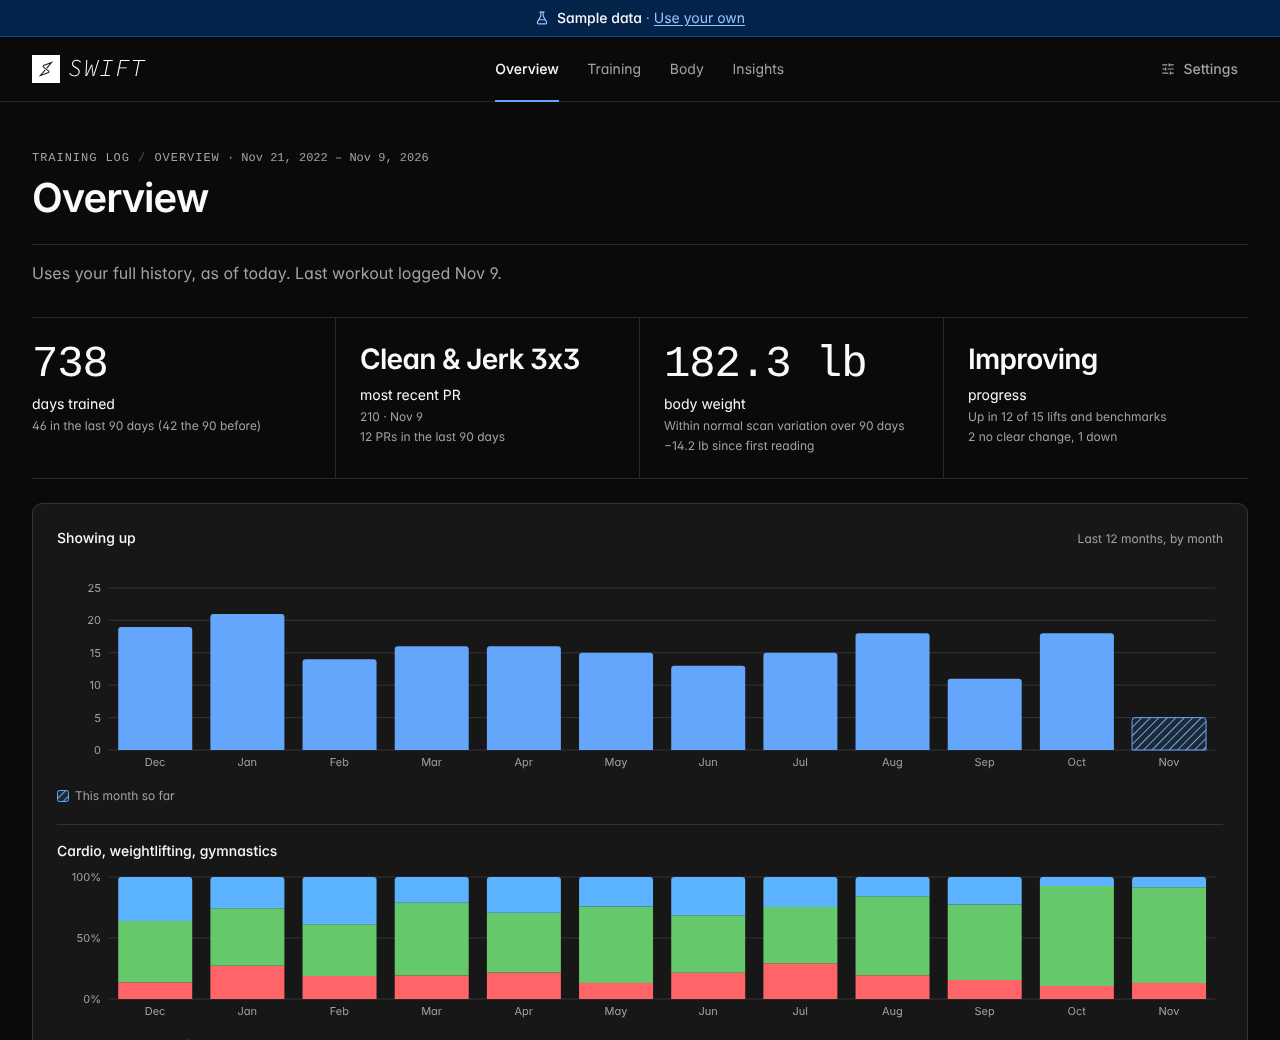
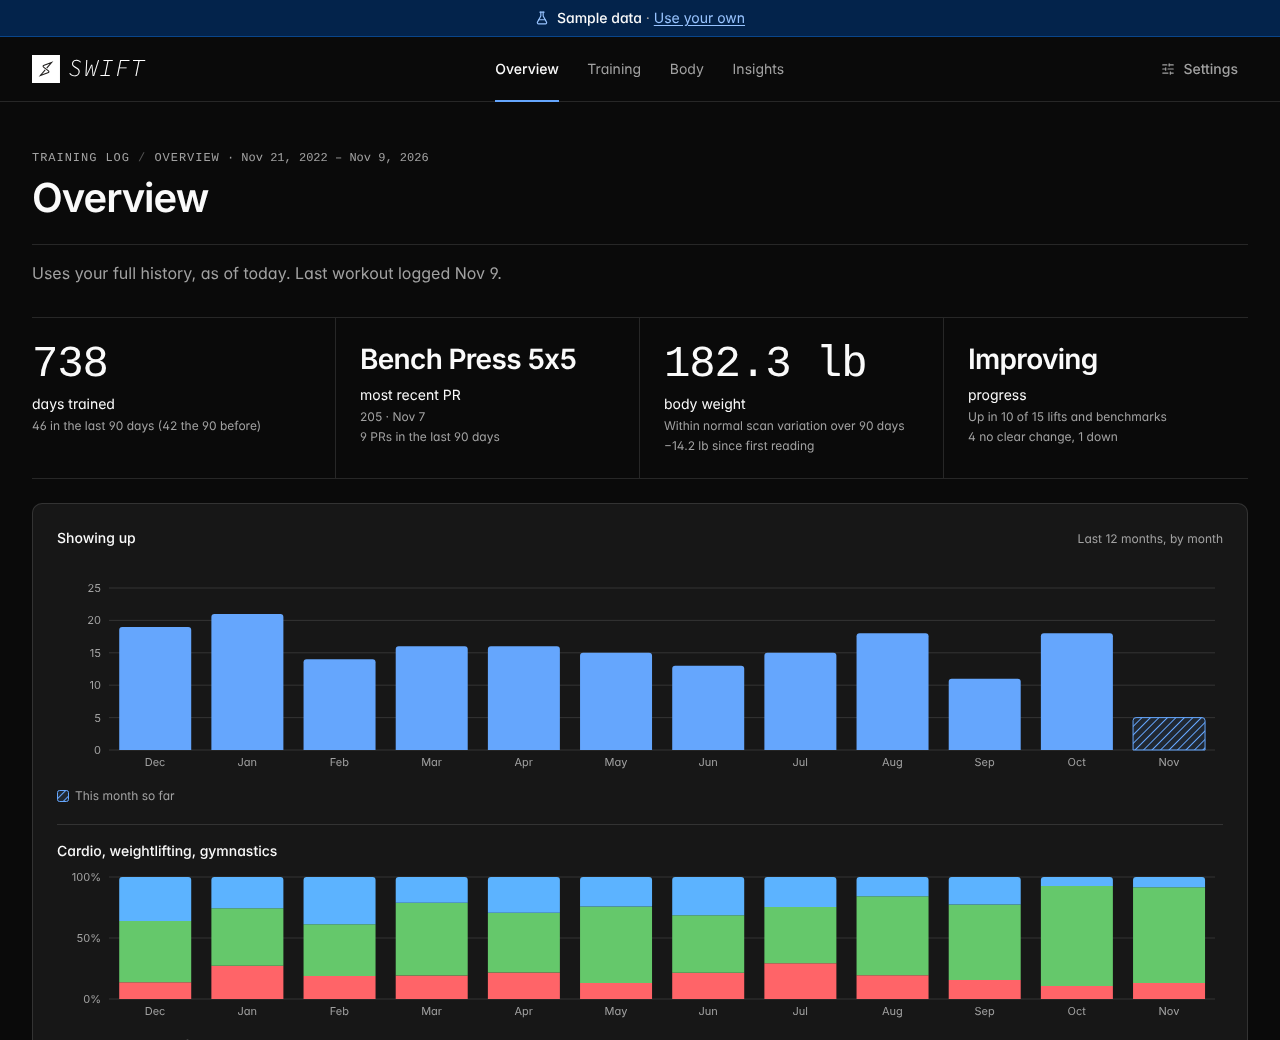
Sample tail: lifts and PRs follow the athlete's own history
The sample extends the frozen export to today in memory. Its lift
generator set every session at 98 to 103% of the best so far and called
any session past the best a PR, and that PR raised the base for the
next session. Measured against the export:

- Half the generated lift sessions were PRs; the history has 22%.
- No metcon or benchmark was a PR; the history has 10.8%.
- Progress drifted toward "everything Up" (12 up, 2 no clear change
  against the history's 8 and 5).
- Two years past the export, the Snatch reached 215 lb from 145.

Now, all derived from the export:

- A lift session draws its weight from the athlete's own spread of
  sessions relative to their best, with a single step past it capped at
  6%. It's a PR only when it beats the best so far.
- The weight is drawn around a working level that rises at the
  athlete's last-year rate, capped at 5% a year. The best can no longer
  ratchet itself upward, and PRs thin out as it pulls ahead, like a
  plateau.
- Metcon and benchmark PRs happen at the history's own rate.

Result today: lift PRs 22%, other PRs 9%, Progress 10 up, 1 down, 4 no
clear change. Two years out: Snatch 165 lb, lift PRs 13%. Tests pin the
PR rule, the rates and the bounded growth. README Overview screenshots
retaken.

Claude-Session: https://claude.ai/code/session_01KDmeT7b27MNaTuikcGhEmZ

Changed region(s): [[0.2812, 0.3385, 0.4688, 0.3692], [0.2812, 0.4, 0.4062, 0.4308], [0.7812, 0.4, 0.875, 0.4308]]

diff --git a/src/lib/sample/extendSample.ts b/src/lib/sample/extendSample.ts
@@ -23,8 +23,10 @@ dayjs.extend(customParseFormat);
  * Content is templated, not freeform-random: the classifier needs real GPP
  * and M/W/G vocabulary to produce a demo that doesn't look broken (empty
  * domains, a nonsensical modality split). Cadence (how many days a week,
- * how many sessions per attended day, RX vs scaled) and lift starting
- * weights are DERIVED from the real historical rows rather than guessed, so
+ * how many sessions per attended day, RX vs scaled), lift starting weights,
+ * how heavy a lift session runs against the best (and so how often it is a
+ * PR), how fast the working level rises, and how often a metcon or benchmark
+ * is a PR are all DERIVED from the real historical rows rather than guessed, so
  * the generated tail reads as a continuation of the same athlete rather
  * than an obviously different one bolted on — and so this keeps working if
  * the bundled export is ever swapped for a different one.
@@ -307,7 +309,49 @@ interface HistoricalStats {
   secondSessionProb: number;
   rxProb: number;
   liftMaxByName: Map<string, number>;
+  /**
+   * Every historical lift session as a fraction of that lift's best before it,
+   * sorted. A generated session draws one of these, so the tail lifts the way
+   * this athlete lifts: mostly working sets below their best, sometimes a PR.
+   */
+  liftRatios: number[];
+  /** Share of non-lift entries (metcons, benchmarks) flagged PR in the history. */
+  nonLiftPrProb: number;
+  /** Each lift's best when the export ends: the working level the tail starts from. */
+  liftLevelAtEnd: Map<string, number>;
+  /** How fast that level rises per year: the athlete's own last-year growth, capped (see MAX_YEARLY_GROWTH). */
+  yearlyGrowth: number;
+  /** The export's last logged date, to measure how far into the tail a session is. */
+  lastDate: Dayjs;
 }
+
+/**
+ * Fallback when the history has too few lift sessions to learn a spread from:
+ * mostly working sets at 75 to 95% of the best, about one in eight a PR.
+ */
+const DEFAULT_LIFT_RATIOS: readonly number[] = [0.75, 0.8, 0.82, 0.85, 0.88, 0.9, 0.92, 0.95, 0.97, 1.0, 1.0, 1.02, 1.04, 1.06];
+const MIN_LIFT_RATIOS = 20;
+
+/**
+ * Largest single step past the best a generated session may take. The history's
+ * own top end includes beginner jumps (+20% in one session), and the tail keeps
+ * growing for as long as the bundled export stays frozen, so uncapped jumps
+ * compound into a demo where every lift soars. Capping the step keeps a PR's
+ * frequency the athlete's own while each one stays a believable increment.
+ */
+const MAX_PR_STEP = 1.06;
+
+/**
+ * The tail's lifts are drawn around a working level, not around the best so far.
+ * Drawing around the best let every PR raise the base for the next one, so the
+ * longer the export stayed frozen the faster the demo's numbers climbed (measured:
+ * Snatch 145 to 215 lb in two years). The level instead rises at the athlete's own
+ * last-year rate (best of the final 12 months against the 12 before, median across
+ * lifts), capped here, so growth stays believable however old the export gets, and
+ * PRs thin out as the best pulls ahead of the level, the way a plateau does.
+ */
+const MAX_YEARLY_GROWTH = 0.05;
+const DEFAULT_YEARLY_GROWTH = 0.02;
 
 function historicalStats(rows: readonly SugarWodRow[]): HistoricalStats {
   const dates = rows.map(parseRowDate).filter((d) => d.isValid());
@@ -338,7 +382,58 @@ function historicalStats(rows: readonly SugarWodRow[]): HistoricalStats {
     if (value > current) liftMaxByName.set(row.barbell_lift, value);
   }
 
-  return { attendanceProb, secondSessionProb, rxProb, liftMaxByName };
+  // Lift sessions against the running best, in date order (CSV order within a day).
+  const dated = rows
+    .map((row, i) => ({ row, i, d: parseRowDate(row) }))
+    .filter((x) => x.d.isValid())
+    .sort((a, b) => a.d.valueOf() - b.d.valueOf() || a.i - b.i);
+  const runningBest = new Map<string, number>();
+  const ratios: number[] = [];
+  for (const { row } of dated) {
+    if (row.score_type !== "Load" || !row.barbell_lift) continue;
+    const value = Number.parseFloat(row.best_result_raw);
+    if (Number.isNaN(value) || value <= 0) continue;
+    const best = runningBest.get(row.barbell_lift);
+    if (best) ratios.push(Math.min(value / best, MAX_PR_STEP));
+    if (!best || value > best) runningBest.set(row.barbell_lift, value);
+  }
+  const liftRatios = ratios.length >= MIN_LIFT_RATIOS ? ratios.sort((a, b) => a - b) : [...DEFAULT_LIFT_RATIOS];
+
+  const nonLift = rows.filter((r) => r.score_type !== "Load");
+  const nonLiftPrProb = nonLift.length >= MIN_LIFT_RATIOS ? clamp(nonLift.filter((r) => r.pr === "PR").length / nonLift.length, 0.01, 0.2) : 0.05;
+
+  // The athlete's own last-year growth, per lift, as the tail's rate.
+  const lastDate = dated.length ? dated[dated.length - 1]!.d : dayjs();
+  const yearAgo = lastDate.subtract(1, "year");
+  const twoYearsAgo = lastDate.subtract(2, "year");
+  const growth: number[] = [];
+  for (const def of LIFT_DEFINITIONS) {
+    let recent = 0;
+    let before = 0;
+    for (const { row, d } of dated) {
+      if (row.score_type !== "Load" || row.barbell_lift !== def.name) continue;
+      const v = Number.parseFloat(row.best_result_raw);
+      if (Number.isNaN(v)) continue;
+      if (d.isAfter(yearAgo)) recent = Math.max(recent, v);
+      else if (d.isAfter(twoYearsAgo)) before = Math.max(before, v);
+    }
+    if (recent > 0 && before > 0) growth.push(recent / before - 1);
+  }
+  growth.sort((a, b) => a - b);
+  const median = growth.length ? growth[Math.floor(growth.length / 2)]! : DEFAULT_YEARLY_GROWTH;
+  const yearlyGrowth = clamp(median, 0, MAX_YEARLY_GROWTH);
+
+  return {
+    attendanceProb,
+    secondSessionProb,
+    rxProb,
+    liftMaxByName,
+    liftRatios,
+    nonLiftPrProb,
+    liftLevelAtEnd: new Map(liftMaxByName),
+    yearlyGrowth,
+    lastDate,
+  };
 }
 
 function roundToFive(n: number): number {
@@ -360,7 +455,7 @@ function generateSession(
   if (roll < 0.55) {
     const template = pick(rngFor(dateKey, `metcon-${sessionIndex}`), METCON_TEMPLATES);
     const { raw, display } = resultFor(template, rngFor(dateKey, `result-${sessionIndex}`));
-    const pr = rngFor(dateKey, `pr-${sessionIndex}`)() < 0.03 ? "PR" : "";
+    const pr = rngFor(dateKey, `pr-${sessionIndex}`)() < stats.nonLiftPrProb ? "PR" : "";
     return {
       date: dateForRow,
       title: template.title,
@@ -380,8 +475,11 @@ function generateSession(
     const def = pick(rngFor(dateKey, `lift-${sessionIndex}`), LIFT_DEFINITIONS);
     const scheme = pick(rngFor(dateKey, `scheme-${sessionIndex}`), LIFT_SCHEMES);
     const currentMax = stats.liftMaxByName.get(def.name) ?? def.baselineWeight;
+    const years = Math.max(0, dayjs(dateKey).diff(stats.lastDate, "day") / 365);
+    const level = (stats.liftLevelAtEnd.get(def.name) ?? def.baselineWeight) * (1 + stats.yearlyGrowth * years);
     const driftRng = rngFor(dateKey, `weight-${sessionIndex}`);
-    const weight = roundToFive(currentMax * (1 + (driftRng() - 0.35) * 0.05));
+    const ratio = stats.liftRatios[Math.floor(driftRng() * stats.liftRatios.length)] ?? 0.9;
+    const weight = roundToFive(level * ratio);
     const isPr = weight > currentMax;
     if (isPr) stats.liftMaxByName.set(def.name, weight);
     return {
@@ -401,7 +499,7 @@ function generateSession(
 
   const template = pick(rngFor(dateKey, `benchmark-${sessionIndex}`), NAMED_BENCHMARK_TEMPLATES);
   const { raw, display } = resultFor(template, rngFor(dateKey, `result-${sessionIndex}`));
-  const pr = rngFor(dateKey, `pr-${sessionIndex}`)() < 0.05 ? "PR" : "";
+  const pr = rngFor(dateKey, `pr-${sessionIndex}`)() < stats.nonLiftPrProb ? "PR" : "";
   return {
     date: dateForRow,
     title: template.title,

diff --git a/tests/extendSample.test.ts b/tests/extendSample.test.ts
@@ -138,3 +138,55 @@ describe("extendSampleRows", () => {
     }
   });
 });
+
+// The tail's lifts and PRs follow the athlete's own history (measured on the
+// bundled export: 22% of lift sessions beat the best so far, 10.8% of other
+// entries are PRs). Before, every lift session sat at 98 to 103% of the best
+// and every PR raised the base for the next, so two years of tail took the
+// Snatch from 145 to 215 lb and the demo's Progress drifted to "everything Up".
+describe("extendSampleRows: lifts and PRs follow the athlete", () => {
+  const isoOf = (r: SugarWodRow) => dayjs(r.date, "MM/DD/YYYY").format("YYYY-MM-DD");
+
+  it("flags a generated lift PR only when it beats the best so far", async () => {
+    const { loadSampleRows } = await import("./fixtures/sampleRows");
+    const real = await loadSampleRows();
+    const ext = extendSampleRows(real, dayjs("2027-11-09"));
+    const best = new Map<string, number>();
+    for (const r of ext.slice(0, real.length)) {
+      if (r.score_type === "Load" && r.barbell_lift) best.set(r.barbell_lift, Math.max(best.get(r.barbell_lift) ?? 0, Number(r.best_result_raw)));
+    }
+    const tail = ext.slice(real.length).filter((r) => r.score_type === "Load").sort((a, b) => (isoOf(a) < isoOf(b) ? -1 : 1));
+    for (const r of tail) {
+      const v = Number(r.best_result_raw);
+      const before = best.get(r.barbell_lift) ?? 0;
+      expect(r.pr === "PR").toBe(v > before);
+      best.set(r.barbell_lift, Math.max(before, v));
+    }
+  });
+
+  it("keeps PRs near the history's own rate rather than on most lift sessions", async () => {
+    const { loadSampleRows } = await import("./fixtures/sampleRows");
+    const real = await loadSampleRows();
+    const tail = extendSampleRows(real, dayjs("2027-11-09")).slice(real.length);
+    const share = (rows: SugarWodRow[]) => rows.filter((r) => r.pr === "PR").length / rows.length;
+    const lifts = tail.filter((r) => r.score_type === "Load");
+    const other = tail.filter((r) => r.score_type !== "Load");
+    expect(share(lifts)).toBeGreaterThan(0.05);
+    expect(share(lifts)).toBeLessThan(0.3);
+    expect(share(other)).toBeGreaterThan(0.02);
+    expect(share(other)).toBeLessThan(0.2);
+  });
+
+  it("grows each lift's best at a bounded yearly rate however old the export gets", async () => {
+    const { loadSampleRows } = await import("./fixtures/sampleRows");
+    const real = await loadSampleRows();
+    const ext = extendSampleRows(real, dayjs("2028-11-09")); // two years past the export's end
+    const best = (rows: SugarWodRow[], lift: string) =>
+      Math.max(...rows.filter((r) => r.score_type === "Load" && r.barbell_lift === lift).map((r) => Number(r.best_result_raw)));
+    for (const lift of ["Snatch", "Back Squat", "Deadlift", "Clean & Jerk"]) {
+      const start = best(real, lift);
+      // At most 5% a year on the level, plus one capped 6% step past it, plus rounding to 5 lb.
+      expect(best(ext, lift)).toBeLessThanOrEqual(Math.ceil((start * (1 + 0.05 * 2.2) * 1.06) / 5) * 5);
+    }
+  });
+});

diff --git a/docs/testing.md b/docs/testing.md
@@ -18,6 +18,7 @@ Vitest, jsdom environment, suites in `tests/`. Coverage is on the logic rather t
 - `themeContrast.test.ts` — every accent swatch holds adequate contrast in both light and dark mode.
 - `analytics.test.ts` — analytics stays off without a key, and no event payload can carry workout content.
 - `progressVerdict.test.ts`, `progressDisplay.test.ts`, `LiftsTab.test.tsx` — the Insights engine and the Progress view: the verdict rules as cases, the words, the groups and the headline, pinned on the bundled sample.
+- `extendSample.test.ts` — the sample's generated tail (from the export's last date to today): only dates after the export and up to today, a session on today, determinism, schema-valid rows, and lifts that follow the athlete: a lift PR only when it beats the best so far, PR rates near the history's own, and each lift's best growing at a bounded yearly rate however old the export gets.
 - `timeline.test.ts`, `entryVerdict.test.ts`, `TimelineTab.test.tsx`, `generateSampleTimeline` via `sampleDataFullness.test.ts` — the entry form's rules, an entry's before and after, and the Timeline view (lanes, selection, the entry dialog, confirmed delete).
 - `weighIns.test.tsx` — manual weigh-ins: validation, pooling with scans, storage, sync and the panel.
 - `weightNoiseBand.test.ts` — the weight noise band: the paired-scans, rolling-median and default methods and the fallback ladder between them.
